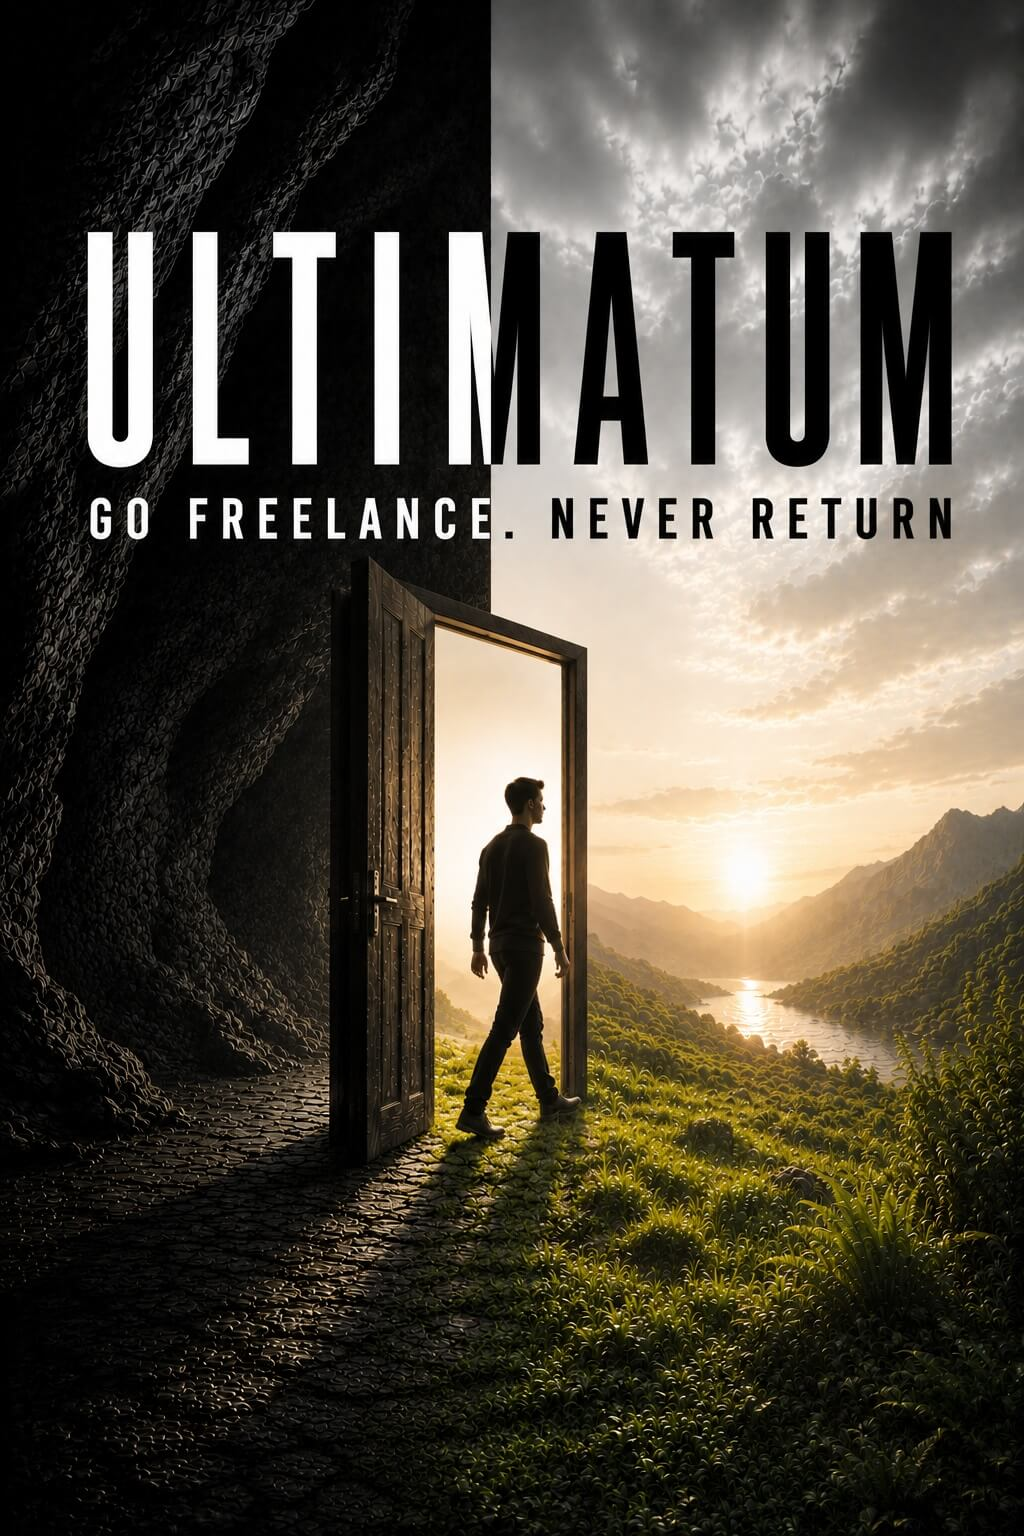
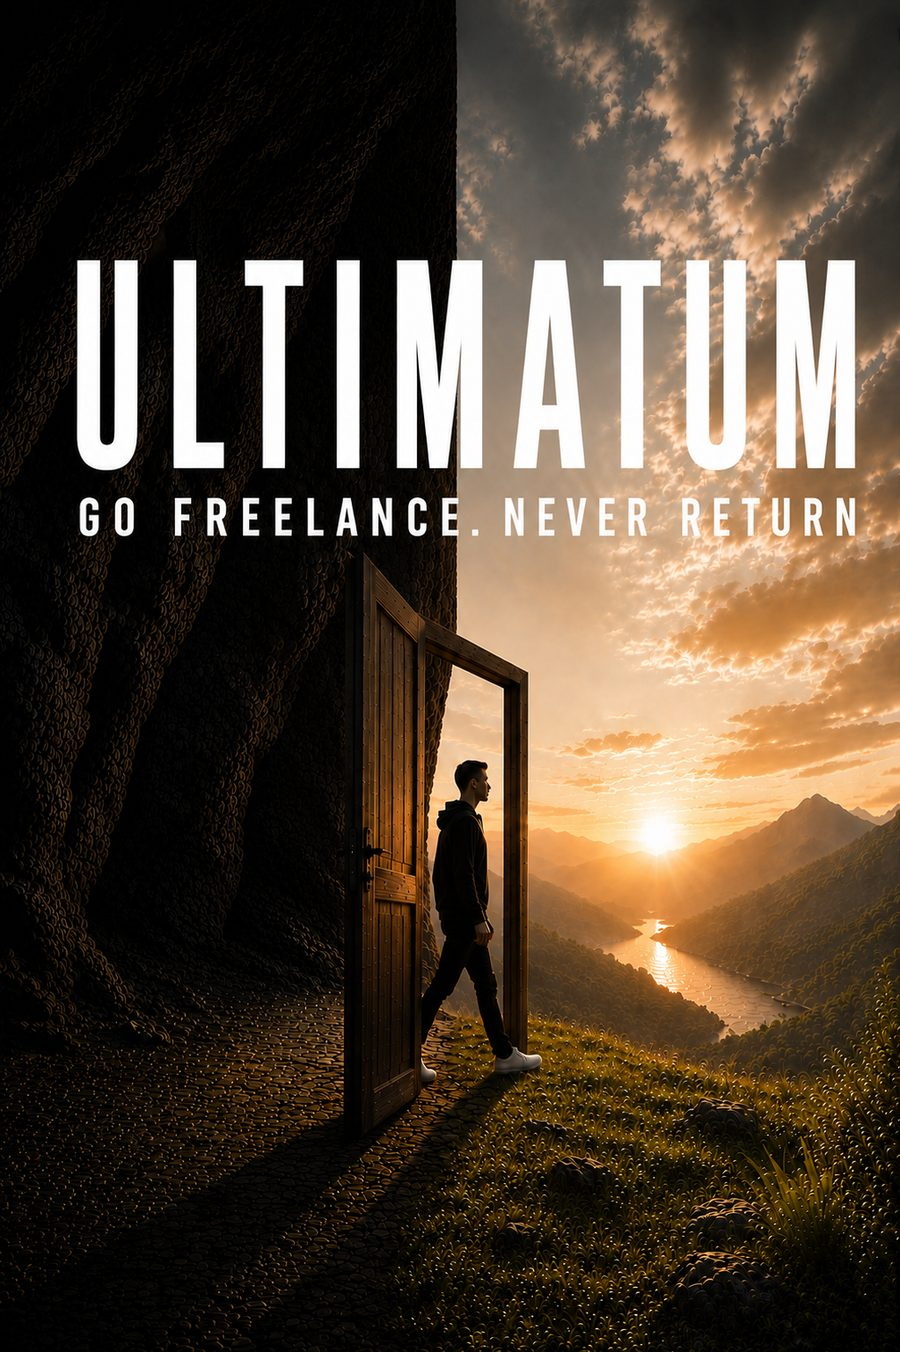
EN: new cover image + dedicated social preview
Replace cover-better-eng.jpg (hero cover, same path — no markup change)
and point og:image / twitter:image on / at the new 1200×630 og-en.jpg.

diff --git a/index.html b/index.html
@@ -11,13 +11,13 @@
 
 <meta property="og:title" content="Ultimatum — Go Freelance. Never Return">
 <meta property="og:description" content="Nonfiction on freelancing through the lens of self-development. 7 parts, 33 chapters. Pre-order.">
-<meta property="og:image" content="https://ultimatumbook.com/images/cover-better-eng.jpg">
+<meta property="og:image" content="https://ultimatumbook.com/images/og-en.jpg">
 <meta property="og:url" content="https://ultimatumbook.com/">
 <meta property="og:type" content="website">
 <meta property="og:locale" content="en_US">
 <meta property="og:locale:alternate" content="ru_RU">
 <meta name="twitter:card" content="summary_large_image">
-<meta name="twitter:image" content="https://ultimatumbook.com/images/cover-better-eng.jpg">
+<meta name="twitter:image" content="https://ultimatumbook.com/images/og-en.jpg">
 <link rel="canonical" href="https://ultimatumbook.com/">
 <link rel="alternate" hreflang="en" href="https://ultimatumbook.com/">
 <link rel="alternate" hreflang="ru" href="https://ultimatumbook.com/ru/">
